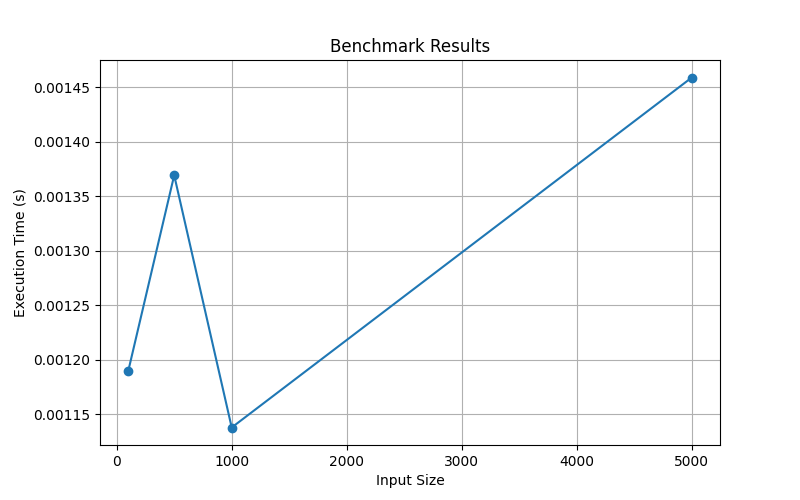
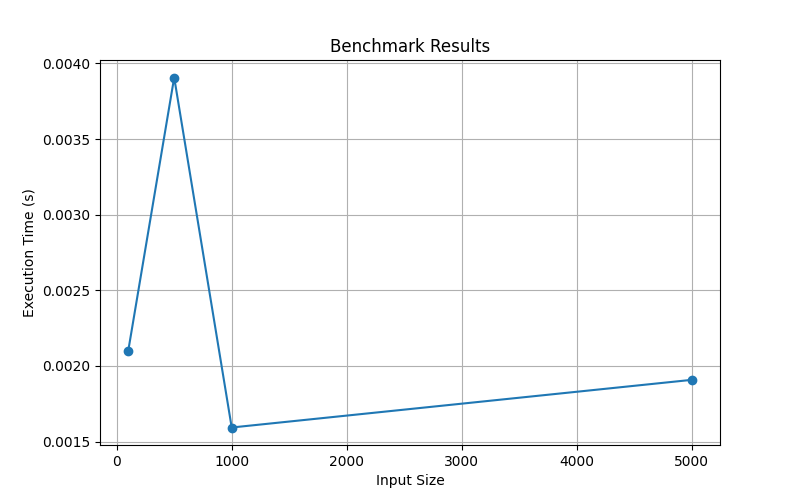
Añadiendo detalles

diff --git a/scripts/graphs.py b/scripts/graphs.py
@@ -21,11 +21,16 @@ plt.title("Benchmark Results")
 
 plt.grid(True)
 
-# Guardar gráfica
+# Guardar gráfica en png
 plt.savefig(
     "reports/png/benchmark.png"
 )
 
+# Guardar gráfica en png
+plt.savefig(
+    "reports/pdf/benchmark.pdf"
+)
+
 print(
-    "Graph saved to reports/png/benchmark.png"
+    "Graphs saved"
 )